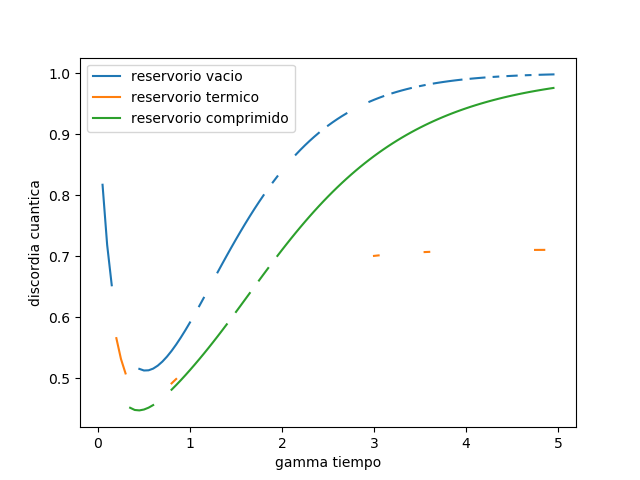
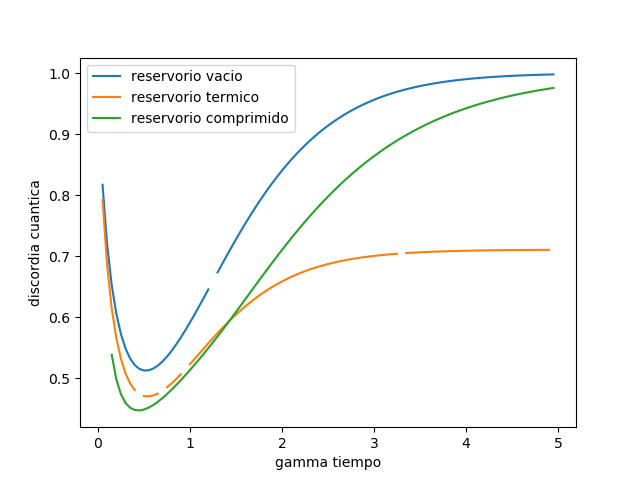
Cambio generado con script

diff --git a/master.py b/master.py
@@ -63,7 +63,7 @@ for i in range (0,100):
       consar=np.array([c1,c2,c3])
       c=np.amax(consar)
       conc_I1_S0S[i]=concurrence(mat)
-      disc_I1_S0S[i]=mat.eigenenergies()[0]*np.log2(4*mat.eigenenergies()[0])+mat.eigenenergies()[1]*np.log2(4*mat.eigenenergies()[1])+mat.eigenenergies()[2]*np.log2(4*mat.eigenenergies()[2])+mat.eigenenergies()[3]*np.log2(4*mat.eigenenergies()[3])+0.5*(-(1+c)*np.log2(np.absolute(1+c))-(1-c)*np.log2(np.absolute(1-c)))
+      disc_I1_S0S[i]=mat.eigenenergies()[0]*np.log2(np.absolute(4*mat.eigenenergies()[0]))+mat.eigenenergies()[1]*np.log2(np.absolute(4*mat.eigenenergies()[1]))+mat.eigenenergies()[2]*np.log2(np.absolute(4*mat.eigenenergies()[2]))+mat.eigenenergies()[3]*np.log2(np.absolute(4*mat.eigenenergies()[3]))+0.5*(-(1+c)*np.log2(np.absolute(1+c))-(1-c)*np.log2(np.absolute(1-c)))
 
 for i in range (0,100):
       mat=Qobj(em_I2_S0S.states[i])
@@ -74,7 +74,7 @@ for i in range (0,100):
       consar=np.array([c1,c2,c3])
       c=np.amax(consar)
       conc_I2_S0S[i]=concurrence(mat)
-      disc_I2_S0S[i]=mat.eigenenergies()[0]*np.log2(4*mat.eigenenergies()[0])+mat.eigenenergies()[1]*np.log2(4*mat.eigenenergies()[1])+mat.eigenenergies()[2]*np.log2(4*mat.eigenenergies()[2])+mat.eigenenergies()[3]*np.log2(4*mat.eigenenergies()[3])+0.5*(-(1+c)*np.log2(np.absolute(1+c))-(1-c)*np.log2(np.absolute(1-c)))
+      disc_I2_S0S[i]=mat.eigenenergies()[0]*np.log2(np.absolute(4*mat.eigenenergies()[0]))+mat.eigenenergies()[1]*np.log2(np.absolute(4*mat.eigenenergies()[1]))+mat.eigenenergies()[2]*np.log2(np.absolute(4*mat.eigenenergies()[2]))+mat.eigenenergies()[3]*np.log2(np.absolute(4*mat.eigenenergies()[3]))+0.5*(-(1+c)*np.log2(np.absolute(1+c))-(1-c)*np.log2(np.absolute(1-c)))
 
 
 for i in range (0,100):
@@ -86,7 +86,7 @@ for i in range (0,100):
       consar=np.array([c1,c2,c3])
       c=np.amax(consar)
       conc_I3_S0S[i]=concurrence(mat)
-      disc_I3_S0S[i]=mat.eigenenergies()[0]*np.log2(4*mat.eigenenergies()[0])+mat.eigenenergies()[1]*np.log2(4*mat.eigenenergies()[1])+mat.eigenenergies()[2]*np.log2(4*mat.eigenenergies()[2])+mat.eigenenergies()[3]*np.log2(4*mat.eigenenergies()[3])+0.5*(-(1+c)*np.log2(np.absolute(1+c))-(1-c)*np.log2(np.absolute(1-c)))
+      disc_I3_S0S[i]=mat.eigenenergies()[0]*np.log2(np.absolute(4*mat.eigenenergies()[0]))+mat.eigenenergies()[1]*np.log2(np.absolute(4*mat.eigenenergies()[1]))+mat.eigenenergies()[2]*np.log2(np.absolute(4*mat.eigenenergies()[2]))+mat.eigenenergies()[3]*np.log2(np.absolute(4*mat.eigenenergies()[3]))+0.5*(-(1+c)*np.log2(np.absolute(1+c))-(1-c)*np.log2(np.absolute(1-c)))
 
 
 for i in range (0,100):
@@ -98,7 +98,7 @@ for i in range (0,100):
       consar=np.array([c1,c2,c3])
       c=np.amax(consar)
       conc_I4_S0S[i]=concurrence(mat)
-      disc_I4_S0S[i]=mat.eigenenergies()[0]*np.log2(4*mat.eigenenergies()[0])+mat.eigenenergies()[1]*np.log2(4*mat.eigenenergies()[1])+mat.eigenenergies()[2]*np.log2(4*mat.eigenenergies()[2])+mat.eigenenergies()[3]*np.log2(4*mat.eigenenergies()[3])+0.5*(-(1+c)*np.log2(np.absolute(1+c))-(1-c)*np.log2(np.absolute(1-c)))
+      disc_I4_S0S[i]=mat.eigenenergies()[0]*np.log2(np.absolute(4*mat.eigenenergies()[0]))+mat.eigenenergies()[1]*np.log2(np.absolute(4*mat.eigenenergies()[1]))+mat.eigenenergies()[2]*np.log2(np.absolute(4*mat.eigenenergies()[2]))+mat.eigenenergies()[3]*np.log2(np.absolute(4*mat.eigenenergies()[3]))+0.5*(-(1+c)*np.log2(np.absolute(1+c))-(1-c)*np.log2(np.absolute(1-c)))
 
 
 for i in range (0,100):
@@ -110,7 +110,7 @@ for i in range (0,100):
       consar=np.array([c1,c2,c3])
       c=np.amax(consar)
       conc_I5_S0S[i]=concurrence(mat)
-      disc_I5_S0S[i]=mat.eigenenergies()[0]*np.log2(4*mat.eigenenergies()[0])+mat.eigenenergies()[1]*np.log2(4*mat.eigenenergies()[1])+mat.eigenenergies()[2]*np.log2(4*mat.eigenenergies()[2])+mat.eigenenergies()[3]*np.log2(4*mat.eigenenergies()[3])+0.5*(-(1+c)*np.log2(np.absolute(1+c))-(1-c)*np.log2(np.absolute(1-c)))
+      disc_I5_S0S[i]=mat.eigenenergies()[0]*np.log2(np.absolute(4*mat.eigenenergies()[0]))+mat.eigenenergies()[1]*np.log2(np.absolute(4*mat.eigenenergies()[1]))+mat.eigenenergies()[2]*np.log2(np.absolute(4*mat.eigenenergies()[2]))+mat.eigenenergies()[3]*np.log2(np.absolute(4*mat.eigenenergies()[3]))+0.5*(-(1+c)*np.log2(np.absolute(1+c))-(1-c)*np.log2(np.absolute(1-c)))
 
 
 #Reservorio térmico sin interacción
@@ -133,7 +133,7 @@ for i in range (0,100):
       consar=np.array([c1,c2,c3])
       c=np.amax(consar)
       conc_I1_S1S[i]=concurrence(mat)
-      disc_I1_S1S[i]=mat.eigenenergies()[0]*np.log2(4*mat.eigenenergies()[0])+mat.eigenenergies()[1]*np.log2(4*mat.eigenenergies()[1])+mat.eigenenergies()[2]*np.log2(4*mat.eigenenergies()[2])+mat.eigenenergies()[3]*np.log2(4*mat.eigenenergies()[3])+0.5*(-(1+c)*np.log2(np.absolute(1+c))-(1-c)*np.log2(np.absolute(1-c)))
+      disc_I1_S1S[i]=mat.eigenenergies()[0]*np.log2(np.absolute(4*mat.eigenenergies()[0]))+mat.eigenenergies()[1]*np.log2(np.absolute(4*mat.eigenenergies()[1]))+mat.eigenenergies()[2]*np.log2(np.absolute(4*mat.eigenenergies()[2]))+mat.eigenenergies()[3]*np.log2(np.absolute(4*mat.eigenenergies()[3]))+0.5*(-(1+c)*np.log2(np.absolute(1+c))-(1-c)*np.log2(np.absolute(1-c)))
 
 
 for i in range (0,100):
@@ -145,7 +145,7 @@ for i in range (0,100):
     consar=np.array([c1,c2,c3])
     c=np.amax(consar)
     conc_I2_S1S[i]=concurrence(mat)
-    disc_I2_S1S[i]=mat.eigenenergies()[0]*np.log2(4*mat.eigenenergies()[0])+mat.eigenenergies()[1]*np.log2(4*mat.eigenenergies()[1])+mat.eigenenergies()[2]*np.log2(4*mat.eigenenergies()[2])+mat.eigenenergies()[3]*np.log2(4*mat.eigenenergies()[3])+0.5*(-(1+c)*np.log2(np.absolute(1+c))-(1-c)*np.log2(np.absolute(1-c)))
+    disc_I2_S1S[i]=mat.eigenenergies()[0]*np.log2(np.absolute(4*mat.eigenenergies()[0]))+mat.eigenenergies()[1]*np.log2(np.absolute(4*mat.eigenenergies()[1]))+mat.eigenenergies()[2]*np.log2(np.absolute(4*mat.eigenenergies()[2]))+mat.eigenenergies()[3]*np.log2(np.absolute(4*mat.eigenenergies()[3]))+0.5*(-(1+c)*np.log2(np.absolute(1+c))-(1-c)*np.log2(np.absolute(1-c)))
 
 
 for i in range (0,100):
@@ -157,7 +157,7 @@ for i in range (0,100):
     consar=np.array([c1,c2,c3])
     c=np.amax(consar)
     conc_I3_S1S[i]=concurrence(mat)
-    disc_I3_S1S[i]=mat.eigenenergies()[0]*np.log2(4*mat.eigenenergies()[0])+mat.eigenenergies()[1]*np.log2(4*mat.eigenenergies()[1])+mat.eigenenergies()[2]*np.log2(4*mat.eigenenergies()[2])+mat.eigenenergies()[3]*np.log2(4*mat.eigenenergies()[3])+0.5*(-(1+c)*np.log2(np.absolute(1+c))-(1-c)*np.log2(np.absolute(1-c)))
+    disc_I3_S1S[i]=mat.eigenenergies()[0]*np.log2(np.absolute(4*mat.eigenenergies()[0]))+mat.eigenenergies()[1]*np.log2(np.absolute(4*mat.eigenenergies()[1]))+mat.eigenenergies()[2]*np.log2(np.absolute(4*mat.eigenenergies()[2]))+mat.eigenenergies()[3]*np.log2(np.absolute(4*mat.eigenenergies()[3]))+0.5*(-(1+c)*np.log2(np.absolute(1+c))-(1-c)*np.log2(np.absolute(1-c)))
 
 
 for i in range (0,100):
@@ -169,8 +169,7 @@ for i in range (0,100):
     consar=np.array([c1,c2,c3])
     c=np.amax(consar)
     conc_I4_S1S[i]=concurrence(mat)
-    disc_I4_S1S[i]=mat.eigenenergies()[0]*np.log2(4*mat.eigenenergies()[0])+mat.eigenenergies()[1]*np.log2(4*mat.eigenenergies()[1])+mat.eigenenergies()[2]*np.log2(4*mat.eigenenergies()[2])+mat.eigenenergies()[3]*np.log2(4*mat.eigenenergies()[3])+0.5*(-(1+c)*np.log2(np.absolute(1+c))-(1-c)*np.log2(np.absolute(1-c)))
-
+    disc_I4_S1S[i]=mat.eigenenergies()[0]*np.log2(np.absolute(4*mat.eigenenergies()[0]))+mat.eigenenergies()[1]*np.log2(np.absolute(4*mat.eigenenergies()[1]))+mat.eigenenergies()[2]*np.log2(np.absolute(4*mat.eigenenergies()[2]))+mat.eigenenergies()[3]*np.log2(np.absolute(4*mat.eigenenergies()[3]))+0.5*(-(1+c)*np.log2(np.absolute(1+c))-(1-c)*np.log2(np.absolute(1-c)))
 
 for i in range (0,100):
     mat=Qobj(em_I5_S1S.states[i])
@@ -181,7 +180,7 @@ for i in range (0,100):
     consar=np.array([c1,c2,c3])
     c=np.amax(consar)
     conc_I5_S1S[i]=concurrence(mat)
-    disc_I5_S1S[i]=mat.eigenenergies()[0]*np.log2(4*mat.eigenenergies()[0])+mat.eigenenergies()[1]*np.log2(4*mat.eigenenergies()[1])+mat.eigenenergies()[2]*np.log2(4*mat.eigenenergies()[2])+mat.eigenenergies()[3]*np.log2(4*mat.eigenenergies()[3])+0.5*(-(1+c)*np.log2(np.absolute(1+c))-(1-c)*np.log2(np.absolute(1-c)))
+    disc_I5_S1S[i]=mat.eigenenergies()[0]*np.log2(np.absolute(4*mat.eigenenergies()[0]))+mat.eigenenergies()[1]*np.log2(np.absolute(4*mat.eigenenergies()[1]))+mat.eigenenergies()[2]*np.log2(np.absolute(4*mat.eigenenergies()[2]))+mat.eigenenergies()[3]*np.log2(np.absolute(4*mat.eigenenergies()[3]))+0.5*(-(1+c)*np.log2(np.absolute(1+c))-(1-c)*np.log2(np.absolute(1-c)))
 
 
 #Reservorio comprimido sin interacción
@@ -204,7 +203,7 @@ for i in range (0,100):
     consar=np.array([c1,c2,c3])
     c=np.amax(consar)
     conc_I1_S2S[i]=concurrence(mat)
-    disc_I1_S2S[i]=mat.eigenenergies()[0]*np.log2(4*mat.eigenenergies()[0])+mat.eigenenergies()[1]*np.log2(4*mat.eigenenergies()[1])+mat.eigenenergies()[2]*np.log2(4*mat.eigenenergies()[2])+mat.eigenenergies()[3]*np.log2(4*mat.eigenenergies()[3])+0.5*(-(1+c)*np.log2(np.absolute(1+c))-(1-c)*np.log2(np.absolute(1-c)))
+    disc_I1_S2S[i]=mat.eigenenergies()[0]*np.log2(np.absolute(4*mat.eigenenergies()[0]))+mat.eigenenergies()[1]*np.log2(np.absolute(4*mat.eigenenergies()[1]))+mat.eigenenergies()[2]*np.log2(np.absolute(4*mat.eigenenergies()[2]))+mat.eigenenergies()[3]*np.log2(np.absolute(4*mat.eigenenergies()[3]))+0.5*(-(1+c)*np.log2(np.absolute(1+c))-(1-c)*np.log2(np.absolute(1-c)))
 
 for i in range (0,100):
     mat=Qobj(em_I2_S2S.states[i])
@@ -215,7 +214,7 @@ for i in range (0,100):
     consar=np.array([c1,c2,c3])
     c=np.amax(consar)
     conc_I2_S2S[i]=concurrence(mat)
-    disc_I2_S2S[i]=mat.eigenenergies()[0]*np.log2(4*mat.eigenenergies()[0])+mat.eigenenergies()[1]*np.log2(4*mat.eigenenergies()[1])+mat.eigenenergies()[2]*np.log2(4*mat.eigenenergies()[2])+mat.eigenenergies()[3]*np.log2(4*mat.eigenenergies()[3])+0.5*(-(1+c)*np.log2(np.absolute(1+c))-(1-c)*np.log2(np.absolute(1-c)))
+    disc_I2_S2S[i]=mat.eigenenergies()[0]*np.log2(np.absolute(4*mat.eigenenergies()[0]))+mat.eigenenergies()[1]*np.log2(np.absolute(4*mat.eigenenergies()[1]))+mat.eigenenergies()[2]*np.log2(np.absolute(4*mat.eigenenergies()[2]))+mat.eigenenergies()[3]*np.log2(np.absolute(4*mat.eigenenergies()[3]))+0.5*(-(1+c)*np.log2(np.absolute(1+c))-(1-c)*np.log2(np.absolute(1-c)))
 
 for i in range (0,100):
     mat=Qobj(em_I3_S2S.states[i])
@@ -226,7 +225,7 @@ for i in range (0,100):
     consar=np.array([c1,c2,c3])
     c=np.amax(consar)
     conc_I3_S2S[i]=concurrence(mat)
-    disc_I3_S2S[i]=mat.eigenenergies()[0]*np.log2(4*mat.eigenenergies()[0])+mat.eigenenergies()[1]*np.log2(4*mat.eigenenergies()[1])+mat.eigenenergies()[2]*np.log2(4*mat.eigenenergies()[2])+mat.eigenenergies()[3]*np.log2(4*mat.eigenenergies()[3])+0.5*(-(1+c)*np.log2(np.absolute(1+c))-(1-c)*np.log2(np.absolute(1-c)))
+    disc_I3_S2S[i]=mat.eigenenergies()[0]*np.log2(np.absolute(4*mat.eigenenergies()[0]))+mat.eigenenergies()[1]*np.log2(np.absolute(4*mat.eigenenergies()[1]))+mat.eigenenergies()[2]*np.log2(np.absolute(4*mat.eigenenergies()[2]))+mat.eigenenergies()[3]*np.log2(np.absolute(4*mat.eigenenergies()[3]))+0.5*(-(1+c)*np.log2(np.absolute(1+c))-(1-c)*np.log2(np.absolute(1-c)))
 
 
 for i in range (0,100):
@@ -238,7 +237,7 @@ for i in range (0,100):
     consar=np.array([c1,c2,c3])
     c=np.amax(consar)
     conc_I4_S2S[i]=concurrence(mat)
-    disc_I4_S2S[i]=mat.eigenenergies()[0]*np.log2(4*mat.eigenenergies()[0])+mat.eigenenergies()[1]*np.log2(4*mat.eigenenergies()[1])+mat.eigenenergies()[2]*np.log2(4*mat.eigenenergies()[2])+mat.eigenenergies()[3]*np.log2(4*mat.eigenenergies()[3])+0.5*(-(1+c)*np.log2(np.absolute(1+c))-(1-c)*np.log2(np.absolute(1-c)))
+    disc_I4_S2S[i]=mat.eigenenergies()[0]*np.log2(np.absolute(4*mat.eigenenergies()[0]))+mat.eigenenergies()[1]*np.log2(np.absolute(4*mat.eigenenergies()[1]))+mat.eigenenergies()[2]*np.log2(np.absolute(4*mat.eigenenergies()[2]))+mat.eigenenergies()[3]*np.log2(np.absolute(4*mat.eigenenergies()[3]))+0.5*(-(1+c)*np.log2(np.absolute(1+c))-(1-c)*np.log2(np.absolute(1-c)))
 
 
 for i in range (0,100):
@@ -250,7 +249,7 @@ for i in range (0,100):
     consar=np.array([c1,c2,c3])
     c=np.amax(consar)
     conc_I5_S2S[i]=concurrence(mat)
-    disc_I5_S2S[i]=mat.eigenenergies()[0]*np.log2(4*mat.eigenenergies()[0])+mat.eigenenergies()[1]*np.log2(4*mat.eigenenergies()[1])+mat.eigenenergies()[2]*np.log2(4*mat.eigenenergies()[2])+mat.eigenenergies()[3]*np.log2(4*mat.eigenenergies()[3])+0.5*(-(1+c)*np.log2(np.absolute(1+c))-(1-c)*np.log2(np.absolute(1-c)))
+    disc_I5_S2S[i]=mat.eigenenergies()[0]*np.log2(np.absolute(4*mat.eigenenergies()[0]))+mat.eigenenergies()[1]*np.log2(np.absolute(4*mat.eigenenergies()[1]))+mat.eigenenergies()[2]*np.log2(np.absolute(4*mat.eigenenergies()[2]))+mat.eigenenergies()[3]*np.log2(np.absolute(4*mat.eigenenergies()[3]))+0.5*(-(1+c)*np.log2(np.absolute(1+c))-(1-c)*np.log2(np.absolute(1-c)))
 
 
 #Reservorio vacío con interacción
@@ -273,7 +272,7 @@ for i in range (0,100):
     consar=np.array([c1,c2,c3])
     c=np.amax(consar)
     conc_I1_S0C[i]=concurrence(mat)
-    disc_I1_S0C[i]=mat.eigenenergies()[0]*np.log2(4*mat.eigenenergies()[0])+mat.eigenenergies()[1]*np.log2(4*mat.eigenenergies()[1])+mat.eigenenergies()[2]*np.log2(4*mat.eigenenergies()[2])+mat.eigenenergies()[3]*np.log2(4*mat.eigenenergies()[3])+0.5*(-(1+c)*np.log2(np.absolute(1+c))-(1-c)*np.log2(np.absolute(1-c)))
+    disc_I1_S0C[i]=mat.eigenenergies()[0]*np.log2(np.absolute(4*mat.eigenenergies()[0]))+mat.eigenenergies()[1]*np.log2(np.absolute(4*mat.eigenenergies()[1]))+mat.eigenenergies()[2]*np.log2(np.absolute(4*mat.eigenenergies()[2]))+mat.eigenenergies()[3]*np.log2(np.absolute(4*mat.eigenenergies()[3]))+0.5*(-(1+c)*np.log2(np.absolute(1+c))-(1-c)*np.log2(np.absolute(1-c)))
 
 
 for i in range (0,100):
@@ -285,7 +284,7 @@ for i in range (0,100):
     consar=np.array([c1,c2,c3])
     c=np.amax(consar)
     conc_I2_S0C[i]=concurrence(mat)
-    disc_I2_S0C[i]=mat.eigenenergies()[0]*np.log2(4*mat.eigenenergies()[0])+mat.eigenenergies()[1]*np.log2(4*mat.eigenenergies()[1])+mat.eigenenergies()[2]*np.log2(4*mat.eigenenergies()[2])+mat.eigenenergies()[3]*np.log2(4*mat.eigenenergies()[3])+0.5*(-(1+c)*np.log2(np.absolute(1+c))-(1-c)*np.log2(np.absolute(1-c)))
+    disc_I2_S0C[i]=mat.eigenenergies()[0]*np.log2(np.absolute(4*mat.eigenenergies()[0]))+mat.eigenenergies()[1]*np.log2(np.absolute(4*mat.eigenenergies()[1]))+mat.eigenenergies()[2]*np.log2(np.absolute(4*mat.eigenenergies()[2]))+mat.eigenenergies()[3]*np.log2(np.absolute(4*mat.eigenenergies()[3]))+0.5*(-(1+c)*np.log2(np.absolute(1+c))-(1-c)*np.log2(np.absolute(1-c)))
 
 
 for i in range (0,100):
@@ -297,7 +296,7 @@ for i in range (0,100):
     consar=np.array([c1,c2,c3])
     c=np.amax(consar)
     conc_I3_S0C[i]=concurrence(mat)
-    disc_I3_S0C[i]=mat.eigenenergies()[0]*np.log2(4*mat.eigenenergies()[0])+mat.eigenenergies()[1]*np.log2(4*mat.eigenenergies()[1])+mat.eigenenergies()[2]*np.log2(4*mat.eigenenergies()[2])+mat.eigenenergies()[3]*np.log2(4*mat.eigenenergies()[3])+0.5*(-(1+c)*np.log2(np.absolute(1+c))-(1-c)*np.log2(np.absolute(1-c)))
+    disc_I3_S0C[i]=mat.eigenenergies()[0]*np.log2(np.absolute(4*mat.eigenenergies()[0]))+mat.eigenenergies()[1]*np.log2(np.absolute(4*mat.eigenenergies()[1]))+mat.eigenenergies()[2]*np.log2(np.absolute(4*mat.eigenenergies()[2]))+mat.eigenenergies()[3]*np.log2(np.absolute(4*mat.eigenenergies()[3]))+0.5*(-(1+c)*np.log2(np.absolute(1+c))-(1-c)*np.log2(np.absolute(1-c)))
 
 
 for i in range (0,100):
@@ -309,7 +308,7 @@ for i in range (0,100):
     consar=np.array([c1,c2,c3])
     c=np.amax(consar)
     conc_I4_S0C[i]=concurrence(mat)
-    disc_I4_S0C[i]=mat.eigenenergies()[0]*np.log2(4*mat.eigenenergies()[0])+mat.eigenenergies()[1]*np.log2(4*mat.eigenenergies()[1])+mat.eigenenergies()[2]*np.log2(4*mat.eigenenergies()[2])+mat.eigenenergies()[3]*np.log2(4*mat.eigenenergies()[3])+0.5*(-(1+c)*np.log2(np.absolute(1+c))-(1-c)*np.log2(np.absolute(1-c)))
+    disc_I4_S0C[i]=mat.eigenenergies()[0]*np.log2(np.absolute(4*mat.eigenenergies()[0]))+mat.eigenenergies()[1]*np.log2(np.absolute(4*mat.eigenenergies()[1]))+mat.eigenenergies()[2]*np.log2(np.absolute(4*mat.eigenenergies()[2]))+mat.eigenenergies()[3]*np.log2(np.absolute(4*mat.eigenenergies()[3]))+0.5*(-(1+c)*np.log2(np.absolute(1+c))-(1-c)*np.log2(np.absolute(1-c)))
 
 
 for i in range (0,100):
@@ -321,7 +320,7 @@ for i in range (0,100):
     consar=np.array([c1,c2,c3])
     c=np.amax(consar)
     conc_I5_S0C[i]=concurrence(mat)
-    disc_I5_S0C[i]=mat.eigenenergies()[0]*np.log2(4*mat.eigenenergies()[0])+mat.eigenenergies()[1]*np.log2(4*mat.eigenenergies()[1])+mat.eigenenergies()[2]*np.log2(4*mat.eigenenergies()[2])+mat.eigenenergies()[3]*np.log2(4*mat.eigenenergies()[3])+0.5*(-(1+c)*np.log2(np.absolute(1+c))-(1-c)*np.log2(np.absolute(1-c)))
+    disc_I5_S0C[i]=mat.eigenenergies()[0]*np.log2(np.absolute(4*mat.eigenenergies()[0]))+mat.eigenenergies()[1]*np.log2(np.absolute(4*mat.eigenenergies()[1]))+mat.eigenenergies()[2]*np.log2(np.absolute(4*mat.eigenenergies()[2]))+mat.eigenenergies()[3]*np.log2(np.absolute(4*mat.eigenenergies()[3]))+0.5*(-(1+c)*np.log2(np.absolute(1+c))-(1-c)*np.log2(np.absolute(1-c)))
 
 
 #Reservorio térmico con interacción
@@ -344,7 +343,7 @@ for i in range (0,100):
     consar=np.array([c1,c2,c3])
     c=np.amax(consar)
     conc_I1_S1C[i]=concurrence(mat)
-    disc_I1_S1C[i]=mat.eigenenergies()[0]*np.log2(4*mat.eigenenergies()[0])+mat.eigenenergies()[1]*np.log2(4*mat.eigenenergies()[1])+mat.eigenenergies()[2]*np.log2(4*mat.eigenenergies()[2])+mat.eigenenergies()[3]*np.log2(4*mat.eigenenergies()[3])+0.5*(-(1+c)*np.log2(np.absolute(1+c))-(1-c)*np.log2(np.absolute(1-c)))
+    disc_I1_S1C[i]=mat.eigenenergies()[0]*np.log2(np.absolute(4*mat.eigenenergies()[0]))+mat.eigenenergies()[1]*np.log2(np.absolute(4*mat.eigenenergies()[1]))+mat.eigenenergies()[2]*np.log2(np.absolute(4*mat.eigenenergies()[2]))+mat.eigenenergies()[3]*np.log2(np.absolute(4*mat.eigenenergies()[3]))+0.5*(-(1+c)*np.log2(np.absolute(1+c))-(1-c)*np.log2(np.absolute(1-c)))
 
     
 for i in range (0,100):
@@ -356,7 +355,7 @@ for i in range (0,100):
     consar=np.array([c1,c2,c3])
     c=np.amax(consar)
     conc_I2_S1C[i]=concurrence(mat)
-    disc_I2_S1C[i]=mat.eigenenergies()[0]*np.log2(4*mat.eigenenergies()[0])+mat.eigenenergies()[1]*np.log2(4*mat.eigenenergies()[1])+mat.eigenenergies()[2]*np.log2(4*mat.eigenenergies()[2])+mat.eigenenergies()[3]*np.log2(4*mat.eigenenergies()[3])+0.5*(-(1+c)*np.log2(np.absolute(1+c))-(1-c)*np.log2(np.absolute(1-c)))
+    disc_I2_S1C[i]=mat.eigenenergies()[0]*np.log2(np.absolute(4*mat.eigenenergies()[0]))+mat.eigenenergies()[1]*np.log2(np.absolute(4*mat.eigenenergies()[1]))+mat.eigenenergies()[2]*np.log2(np.absolute(4*mat.eigenenergies()[2]))+mat.eigenenergies()[3]*np.log2(np.absolute(4*mat.eigenenergies()[3]))+0.5*(-(1+c)*np.log2(np.absolute(1+c))-(1-c)*np.log2(np.absolute(1-c)))
 
 
 for i in range (0,100):
@@ -368,7 +367,7 @@ for i in range (0,100):
     consar=np.array([c1,c2,c3])
     c=np.amax(consar)
     conc_I3_S1C[i]=concurrence(mat)
-    disc_I3_S1C[i]=mat.eigenenergies()[0]*np.log2(4*mat.eigenenergies()[0])+mat.eigenenergies()[1]*np.log2(4*mat.eigenenergies()[1])+mat.eigenenergies()[2]*np.log2(4*mat.eigenenergies()[2])+mat.eigenenergies()[3]*np.log2(4*mat.eigenenergies()[3])+0.5*(-(1+c)*np.log2(np.absolute(1+c))-(1-c)*np.log2(np.absolute(1-c)))
+    disc_I3_S1C[i]=mat.eigenenergies()[0]*np.log2(np.absolute(4*mat.eigenenergies()[0]))+mat.eigenenergies()[1]*np.log2(np.absolute(4*mat.eigenenergies()[1]))+mat.eigenenergies()[2]*np.log2(np.absolute(4*mat.eigenenergies()[2]))+mat.eigenenergies()[3]*np.log2(np.absolute(4*mat.eigenenergies()[3]))+0.5*(-(1+c)*np.log2(np.absolute(1+c))-(1-c)*np.log2(np.absolute(1-c)))
 
 
 for i in range (0,100):
@@ -380,7 +379,7 @@ for i in range (0,100):
     consar=np.array([c1,c2,c3])
     c=np.amax(consar)
     conc_I4_S1C[i]=concurrence(mat)
-    disc_I4_S1C[i]=mat.eigenenergies()[0]*np.log2(4*mat.eigenenergies()[0])+mat.eigenenergies()[1]*np.log2(4*mat.eigenenergies()[1])+mat.eigenenergies()[2]*np.log2(4*mat.eigenenergies()[2])+mat.eigenenergies()[3]*np.log2(4*mat.eigenenergies()[3])+0.5*(-(1+c)*np.log2(np.absolute(1+c))-(1-c)*np.log2(np.absolute(1-c)))
+    disc_I4_S1C[i]=mat.eigenenergies()[0]*np.log2(np.absolute(4*mat.eigenenergies()[0]))+mat.eigenenergies()[1]*np.log2(np.absolute(4*mat.eigenenergies()[1]))+mat.eigenenergies()[2]*np.log2(np.absolute(4*mat.eigenenergies()[2]))+mat.eigenenergies()[3]*np.log2(np.absolute(4*mat.eigenenergies()[3]))+0.5*(-(1+c)*np.log2(np.absolute(1+c))-(1-c)*np.log2(np.absolute(1-c)))
 
 
 for i in range (0,100):
@@ -392,7 +391,7 @@ for i in range (0,100):
     consar=np.array([c1,c2,c3])
     c=np.amax(consar)
     conc_I5_S1C[i]=concurrence(mat)
-    disc_I5_S1C[i]=mat.eigenenergies()[0]*np.log2(4*mat.eigenenergies()[0])+mat.eigenenergies()[1]*np.log2(4*mat.eigenenergies()[1])+mat.eigenenergies()[2]*np.log2(4*mat.eigenenergies()[2])+mat.eigenenergies()[3]*np.log2(4*mat.eigenenergies()[3])+0.5*(-(1+c)*np.log2(np.absolute(1+c))-(1-c)*np.log2(np.absolute(1-c)))
+    disc_I5_S1C[i]=mat.eigenenergies()[0]*np.log2(np.absolute(4*mat.eigenenergies()[0]))+mat.eigenenergies()[1]*np.log2(np.absolute(4*mat.eigenenergies()[1]))+mat.eigenenergies()[2]*np.log2(np.absolute(4*mat.eigenenergies()[2]))+mat.eigenenergies()[3]*np.log2(np.absolute(4*mat.eigenenergies()[3]))+0.5*(-(1+c)*np.log2(np.absolute(1+c))-(1-c)*np.log2(np.absolute(1-c)))
 
 
 #Reservorio comprimido con interacción
@@ -415,7 +414,7 @@ for i in range (0,100):
     consar=np.array([c1,c2,c3])
     c=np.amax(consar)
     conc_I1_S2C[i]=concurrence(mat)
-    disc_I1_S2C[i]=mat.eigenenergies()[0]*np.log2(4*mat.eigenenergies()[0])+mat.eigenenergies()[1]*np.log2(4*mat.eigenenergies()[1])+mat.eigenenergies()[2]*np.log2(4*mat.eigenenergies()[2])+mat.eigenenergies()[3]*np.log2(4*mat.eigenenergies()[3])+0.5*(-(1+c)*np.log2(np.absolute(1+c))-(1-c)*np.log2(np.absolute(1-c)))
+    disc_I1_S2C[i]=mat.eigenenergies()[0]*np.log2(np.absolute(4*mat.eigenenergies()[0]))+mat.eigenenergies()[1]*np.log2(np.absolute(4*mat.eigenenergies()[1]))+mat.eigenenergies()[2]*np.log2(np.absolute(4*mat.eigenenergies()[2]))+mat.eigenenergies()[3]*np.log2(np.absolute(4*mat.eigenenergies()[3]))+0.5*(-(1+c)*np.log2(np.absolute(1+c))-(1-c)*np.log2(np.absolute(1-c)))
 
 for i in range (0,100):
     mat=Qobj(em_I2_S2C.states[i])
@@ -426,7 +425,8 @@ for i in range (0,100):
     consar=np.array([c1,c2,c3])
     c=np.amax(consar)
     conc_I2_S2C[i]=concurrence(mat)
-    disc_I2_S2C[i]=mat.eigenenergies()[0]*np.log2(4*mat.eigenenergies()[0])+mat.eigenenergies()[1]*np.log2(4*mat.eigenenergies()[1])+mat.eigenenergies()[2]*np.log2(4*mat.eigenenergies()[2])+mat.eigenenergies()[3]*np.log2(4*mat.eigenenergies()[3])+0.5*(-(1+c)*np.log2(np.absolute(1+c))-(1-c)*np.log2(np.absolute(1-c)))
+    disc_I2_S2C[i]=mat.eigenenergies()[0]*np.log2(np.absolute(4*mat.eigenenergies()[0]))+mat.eigenenergies()[1]*np.log2(np.absolute(4*mat.eigenenergies()[1]))+mat.eigenenergies()[2]*np.log2(np.absolute(4*mat.eigenenergies()[2]))+mat.eigenenergies()[3]*np.log2(np.absolute(4*mat.eigenenergies()[3]))+0.5*(-(1+c)*np.log2(np.absolute(1+c))-(1-c)*np.log2(np.absolute(1-c)))
+
 for i in range (0,100):
     mat=Qobj(em_I3_S2C.states[i])
     c1=0.5*mat.eigenenergies()[2]+mat.eigenenergies()[3]-mat.eigenenergies()[0]-mat.eigenenergies()[1]
@@ -436,7 +436,7 @@ for i in range (0,100):
     consar=np.array([c1,c2,c3])
     c=np.amax(consar)
     conc_I3_S2C[i]=concurrence(mat)
-    disc_I3_S2C[i]=mat.eigenenergies()[0]*np.log2(4*mat.eigenenergies()[0])+mat.eigenenergies()[1]*np.log2(4*mat.eigenenergies()[1])+mat.eigenenergies()[2]*np.log2(4*mat.eigenenergies()[2])+mat.eigenenergies()[3]*np.log2(4*mat.eigenenergies()[3])+0.5*(-(1+c)*np.log2(np.absolute(1+c))-(1-c)*np.log2(np.absolute(1-c)))
+    disc_I3_S2C[i]=mat.eigenenergies()[0]*np.log2(np.absolute(4*mat.eigenenergies()[0]))+mat.eigenenergies()[1]*np.log2(np.absolute(4*mat.eigenenergies()[1]))+mat.eigenenergies()[2]*np.log2(np.absolute(4*mat.eigenenergies()[2]))+mat.eigenenergies()[3]*np.log2(np.absolute(4*mat.eigenenergies()[3]))+0.5*(-(1+c)*np.log2(np.absolute(1+c))-(1-c)*np.log2(np.absolute(1-c)))
 
 
 for i in range (0,100):
@@ -448,7 +448,7 @@ for i in range (0,100):
     consar=np.array([c1,c2,c3])
     c=np.amax(consar)
     conc_I4_S2C[i]=concurrence(mat)
-    disc_I4_S2C[i]=mat.eigenenergies()[0]*np.log2(4*mat.eigenenergies()[0])+mat.eigenenergies()[1]*np.log2(4*mat.eigenenergies()[1])+mat.eigenenergies()[2]*np.log2(4*mat.eigenenergies()[2])+mat.eigenenergies()[3]*np.log2(4*mat.eigenenergies()[3])+0.5*(-(1+c)*np.log2(np.absolute(1+c))-(1-c)*np.log2(np.absolute(1-c)))
+    disc_I4_S2C[i]=mat.eigenenergies()[0]*np.log2(np.absolute(4*mat.eigenenergies()[0]))+mat.eigenenergies()[1]*np.log2(np.absolute(4*mat.eigenenergies()[1]))+mat.eigenenergies()[2]*np.log2(np.absolute(4*mat.eigenenergies()[2]))+mat.eigenenergies()[3]*np.log2(np.absolute(4*mat.eigenenergies()[3]))+0.5*(-(1+c)*np.log2(np.absolute(1+c))-(1-c)*np.log2(np.absolute(1-c)))
 
 
 for i in range (0,100):
@@ -460,7 +460,7 @@ for i in range (0,100):
     consar=np.array([c1,c2,c3])
     c=np.amax(consar)
     conc_I5_S2C[i]=concurrence(mat)
-    disc_I5_S2C[i]=mat.eigenenergies()[0]*np.log2(4*mat.eigenenergies()[0])+mat.eigenenergies()[1]*np.log2(4*mat.eigenenergies()[1])+mat.eigenenergies()[2]*np.log2(4*mat.eigenenergies()[2])+mat.eigenenergies()[3]*np.log2(4*mat.eigenenergies()[3])+0.5*(-(1+c)*np.log2(np.absolute(1+c))-(1-c)*np.log2(np.absolute(1-c)))
+    disc_I5_S2C[i]=mat.eigenenergies()[0]*np.log2(np.absolute(4*mat.eigenenergies()[0]))+mat.eigenenergies()[1]*np.log2(np.absolute(4*mat.eigenenergies()[1]))+mat.eigenenergies()[2]*np.log2(np.absolute(4*mat.eigenenergies()[2]))+mat.eigenenergies()[3]*np.log2(np.absolute(4*mat.eigenenergies()[3]))+0.5*(-(1+c)*np.log2(np.absolute(1+c))-(1-c)*np.log2(np.absolute(1-c)))
 
 
 #Graficar
